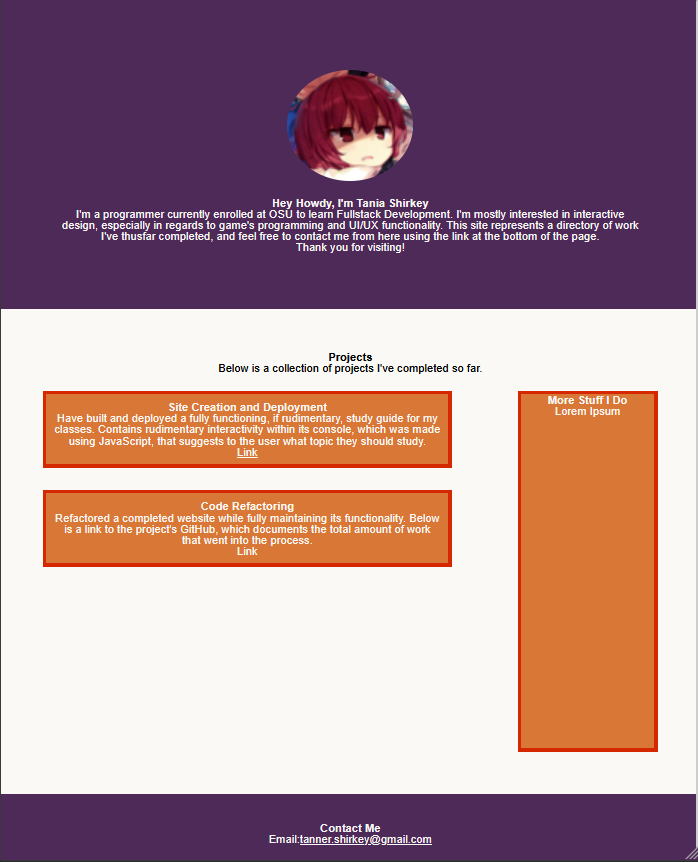
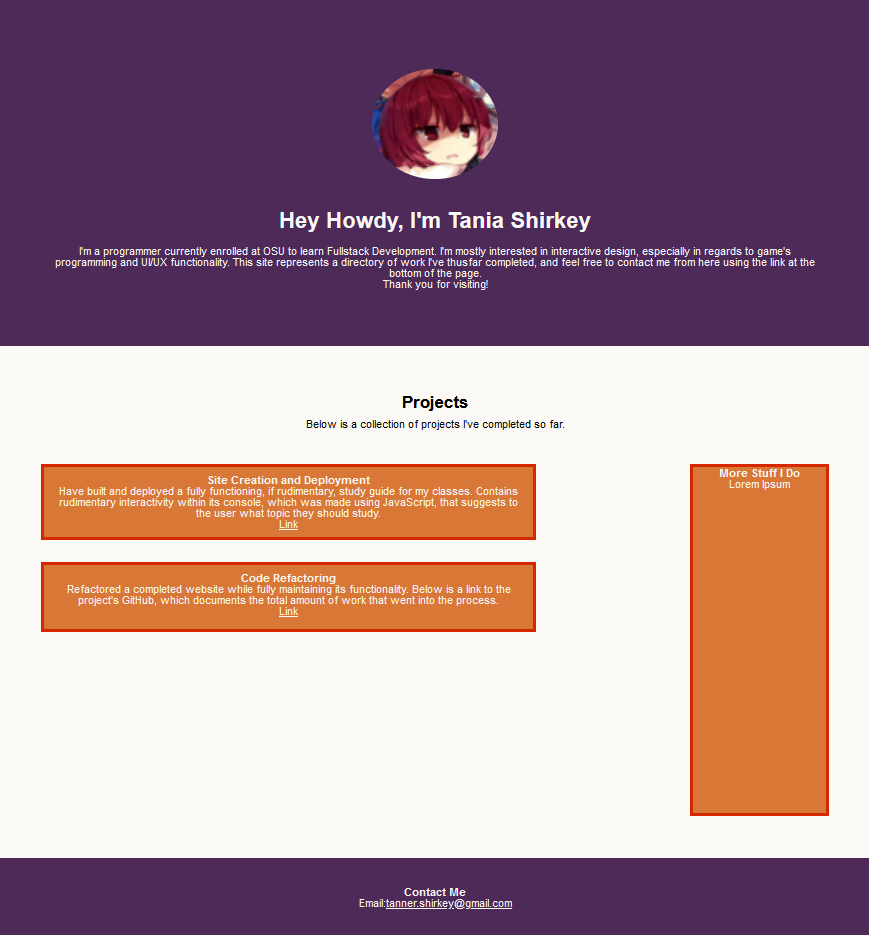
Final final changes before deployment.

Changed region(s): [[0.0, 0.0, 1.0, 1.0], [0.7221, 0.4524, 0.9628, 0.8747]]

diff --git a/assets/style.css b/assets/style.css
@@ -13,6 +13,16 @@ a {
     color: var(--white);
 }
 
+h1 {
+    font-size: 2em;
+    padding: 20px;
+}
+
+h2 {
+    font-size: 1.5em;
+    padding: 10px;
+}
+
 /* Makes image round and cute. */
 img {
     border-radius: 100%;
@@ -37,7 +47,7 @@ main {
 
 main h2 + p {
     justify-content: center;
-    padding-bottom: 25px;
+    padding-bottom: 50px;
 }
 
 header {
